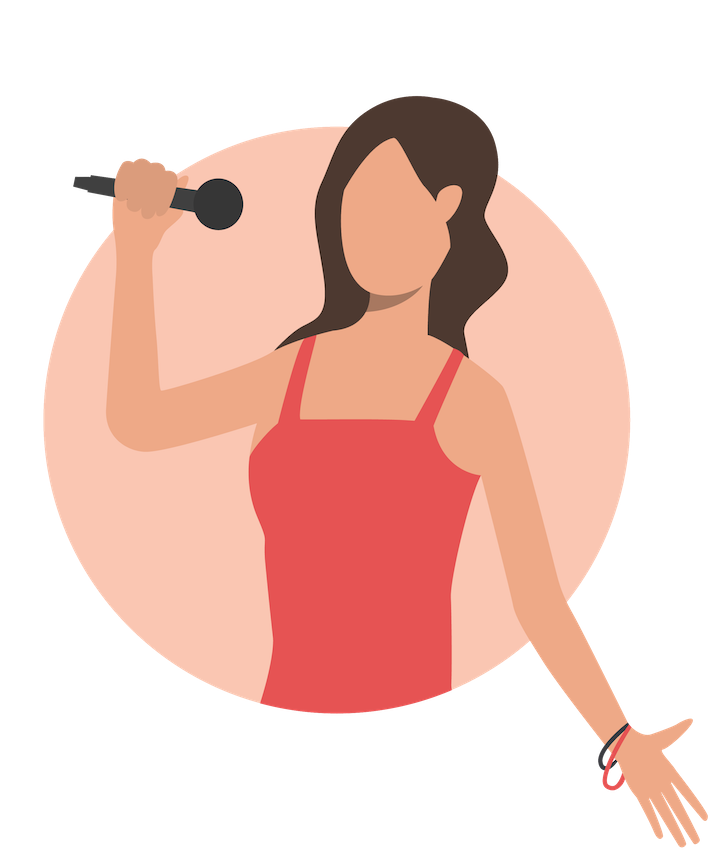
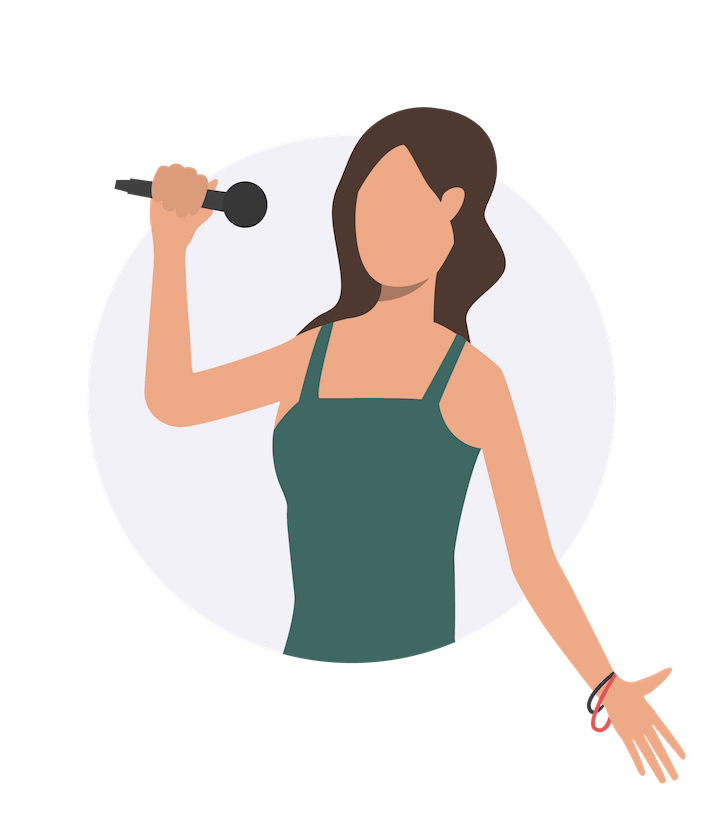
Vectors Update vectors with new colors. Remove unused vectors and images from file

diff --git a/index.html b/index.html
@@ -44,7 +44,7 @@
   <main>
     <section class="welcome">
         <div class="vector-container">
-            <img src="./media/vectors/welcome-vector-1.png" alt="Woman programmer illustration">
+            <img src="./media/vectors/welcome-vector.png" alt="Woman programmer illustration">
         </div>
         <div class="welcome-content">
             <h1>Welcome to my FAC 23 application!</h1>
